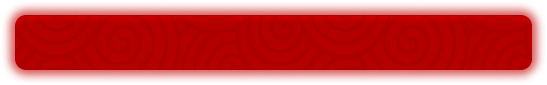
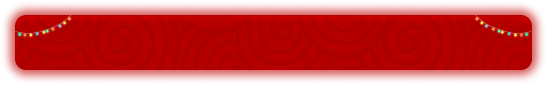
fix: Use compress bg img for Home page

Changed region(s): [[0.8702, 0.1882, 0.9945, 0.4471], [0.0311, 0.1882, 0.1554, 0.4471]]

diff --git a/tha-static-h5/src/pages/HomePage.vue b/tha-static-h5/src/pages/HomePage.vue
@@ -881,7 +881,6 @@
               <em>IPHONE</em>
             </span>
           </div>
-          <div class="btn-deco"><img src="../assets/images/common/home-popup-btn-deco.png" /></div>
         </router-link>
         <router-link to="/promo?id=80">
           <div class="popup-item">
@@ -892,7 +891,6 @@
               <em>20,000</em>
             </span>
           </div>
-          <div class="btn-deco"><img src="../assets/images/common/home-popup-btn-deco.png" /></div>
         </router-link>
         <!-- <router-link to="/promo?id=76">
           <div class="popup-item">
@@ -926,7 +924,6 @@
               ถอนไม่อั้น
             </span>
           </div>
-          <div class="btn-deco"><img src="../assets/images/common/home-popup-btn-deco.png" /></div>
         </router-link>
         <router-link to="/promo?id=76">
           <div class="popup-item">
@@ -936,7 +933,6 @@
               เล่นได้ทุกเกมส์ ถอนไม่อั้น
             </span>
           </div>
-          <div class="btn-deco"><img src="../assets/images/common/home-popup-btn-deco.png" /></div>
         </router-link>
       </div>
     </div>
@@ -2873,13 +2869,6 @@ export default defineComponent({
         margin: 0px 35px;
       }
     }
-
-    .btn-deco {
-      position: absolute;
-      top: 15%;
-      z-index: 1;
-      padding: 0 25px;
-    }
   }
 }
 
@@ -2944,7 +2933,7 @@ export default defineComponent({
     }
 
     .line-img {
-      width: 90px;
+      width: 80px;
       height: auto;
       margin: 0 auto;
     }

diff --git a/tha-static-h5/src/pages/GetApp.vue b/tha-static-h5/src/pages/GetApp.vue
@@ -261,8 +261,8 @@ const download_type = ref("android");
   width: 95%;
   margin: 0 auto;
   min-height: 100vh;
-  background: url("../assets/images/common/bg-img.png") no-repeat top center;
-  background-size: cover;
+  // background: url("../assets/images/common/bg-img.jpg") no-repeat top center;
+  // background-size: cover;
 
   .getapp {
     display: flex;

diff --git a/tha-static-h5/src/layouts/MainLayout.vue b/tha-static-h5/src/layouts/MainLayout.vue
@@ -508,6 +508,10 @@ svg path {
   z-index: 9;
   opacity: 1;
 
+  .footer-icon {
+    width: 35px;
+  }
+
   .footer-icon-wrapper {
     // background: linear-gradient(90deg, #cf027d 0%, #ff6370 100%),
     //   linear-gradient(94.81deg, #fb3ca9 7.45%, #ffa9ab 95.9%);

diff --git a/tha-static-h5/src/css/app.scss b/tha-static-h5/src/css/app.scss
@@ -13,7 +13,7 @@ body {
 
 #q-app {
   background: $dark-page;
-  background: url("../assets/images/common/bg-img.png") no-repeat top center;
+  background: url("../assets/images/common/bg-img.jpg") no-repeat top center;
   background-size: cover;
 }
 
